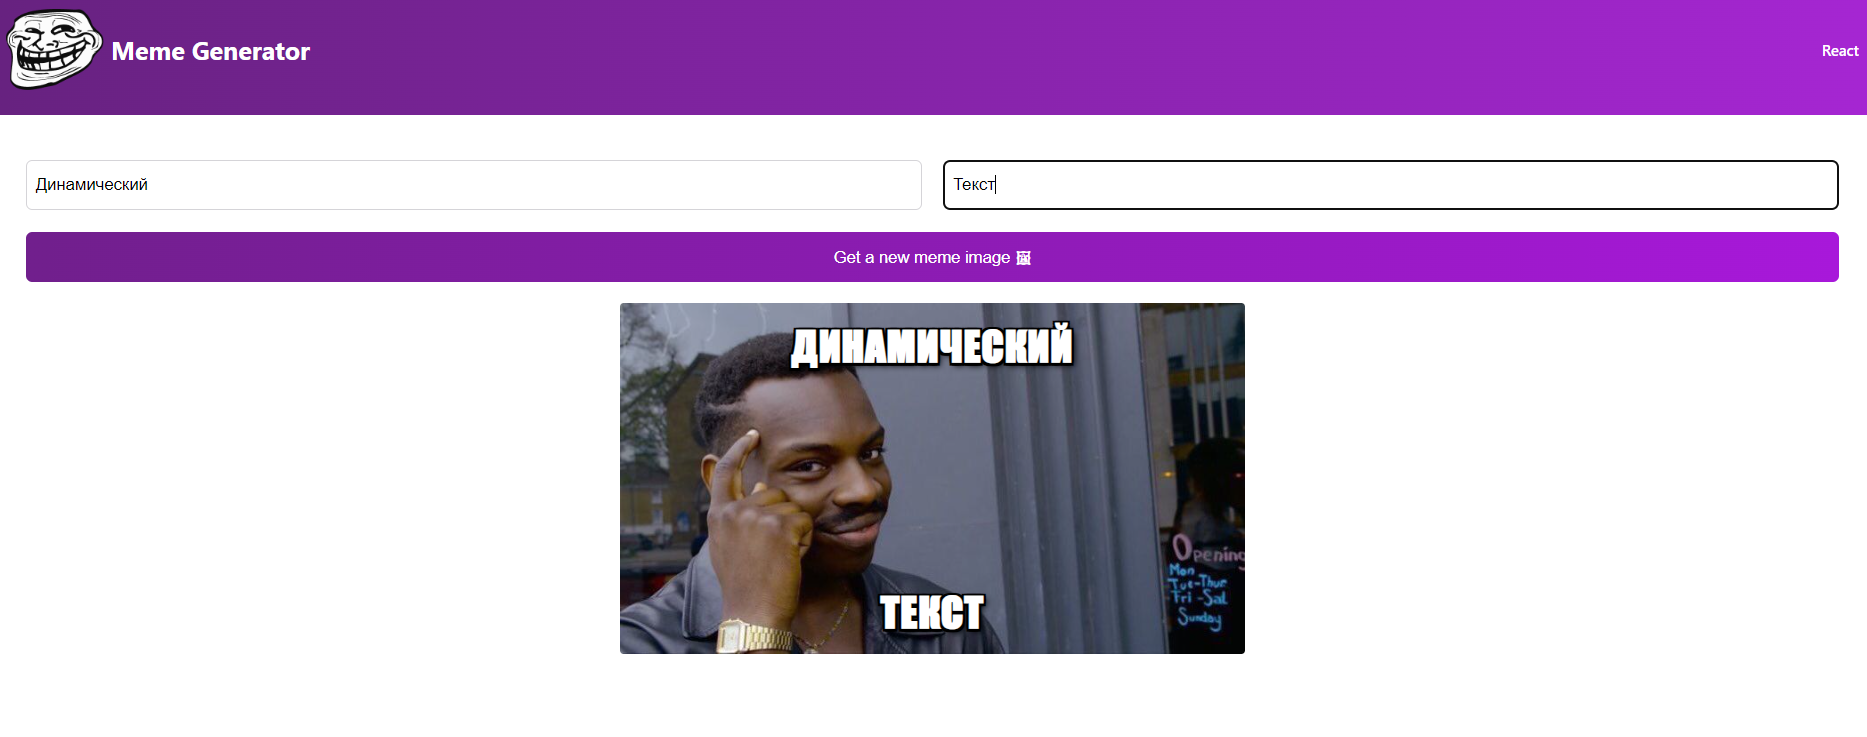
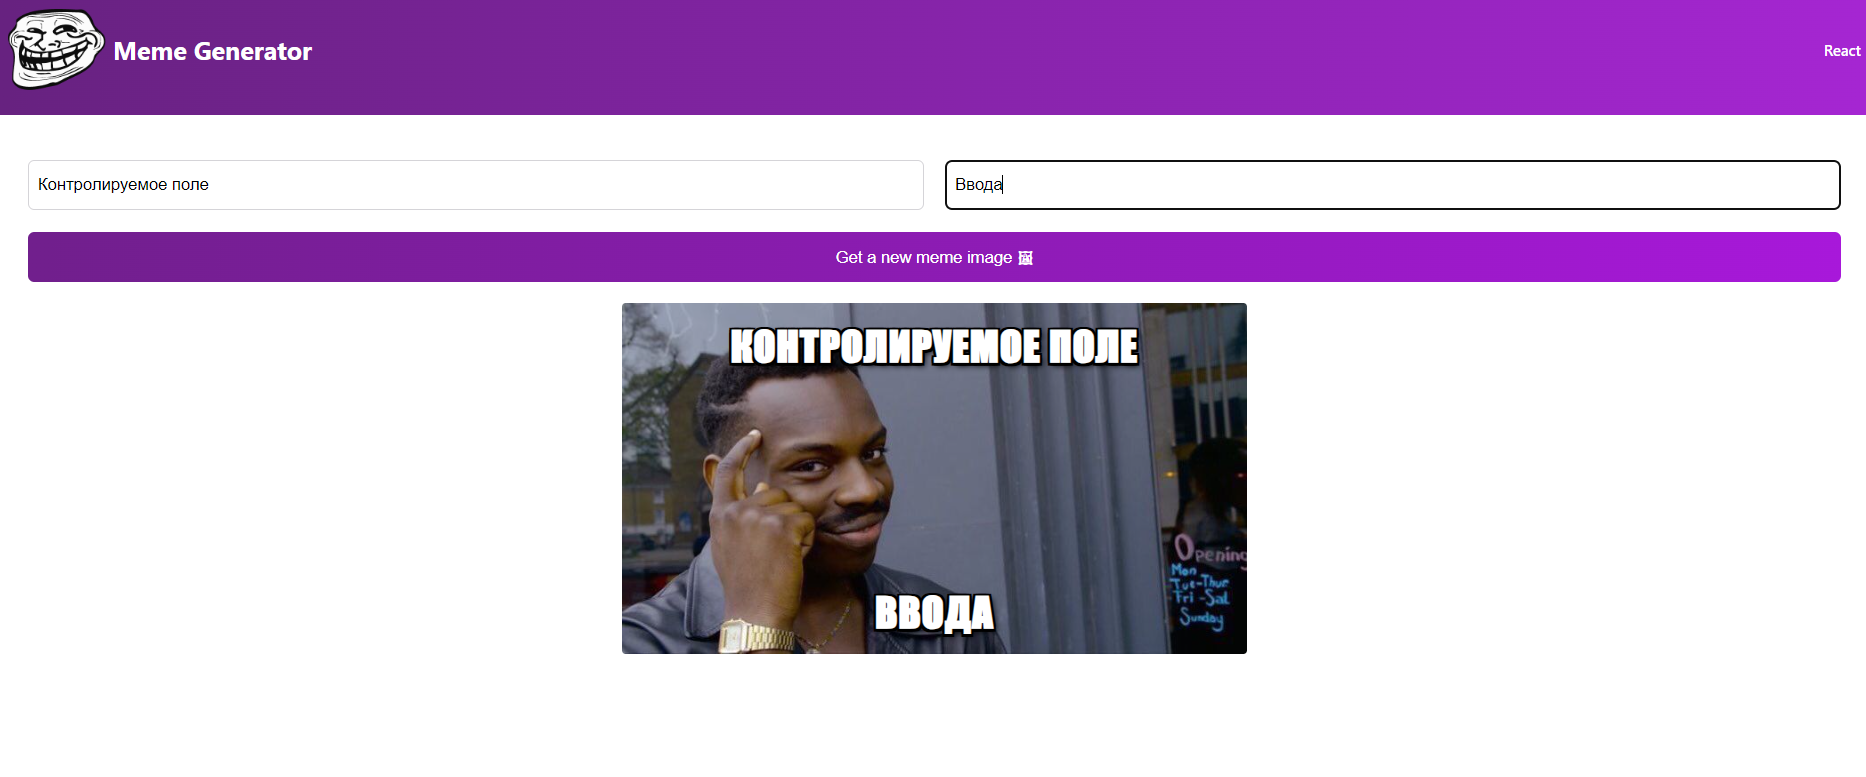
new commit

diff --git a/README.md b/README.md
@@ -1,4 +1,4 @@
-# travel journal - первый проект на React, работа с динамическим рендерингом из массива, работа с пропсами
+# meme generator - проект на React, работа с хуками useState и useEffect, работа с контролируемым полем ввода, fetch запросом на сервер
 
 # ![Alt text](./src/img/Screenshot_1.png?raw=true "Проект")
 
